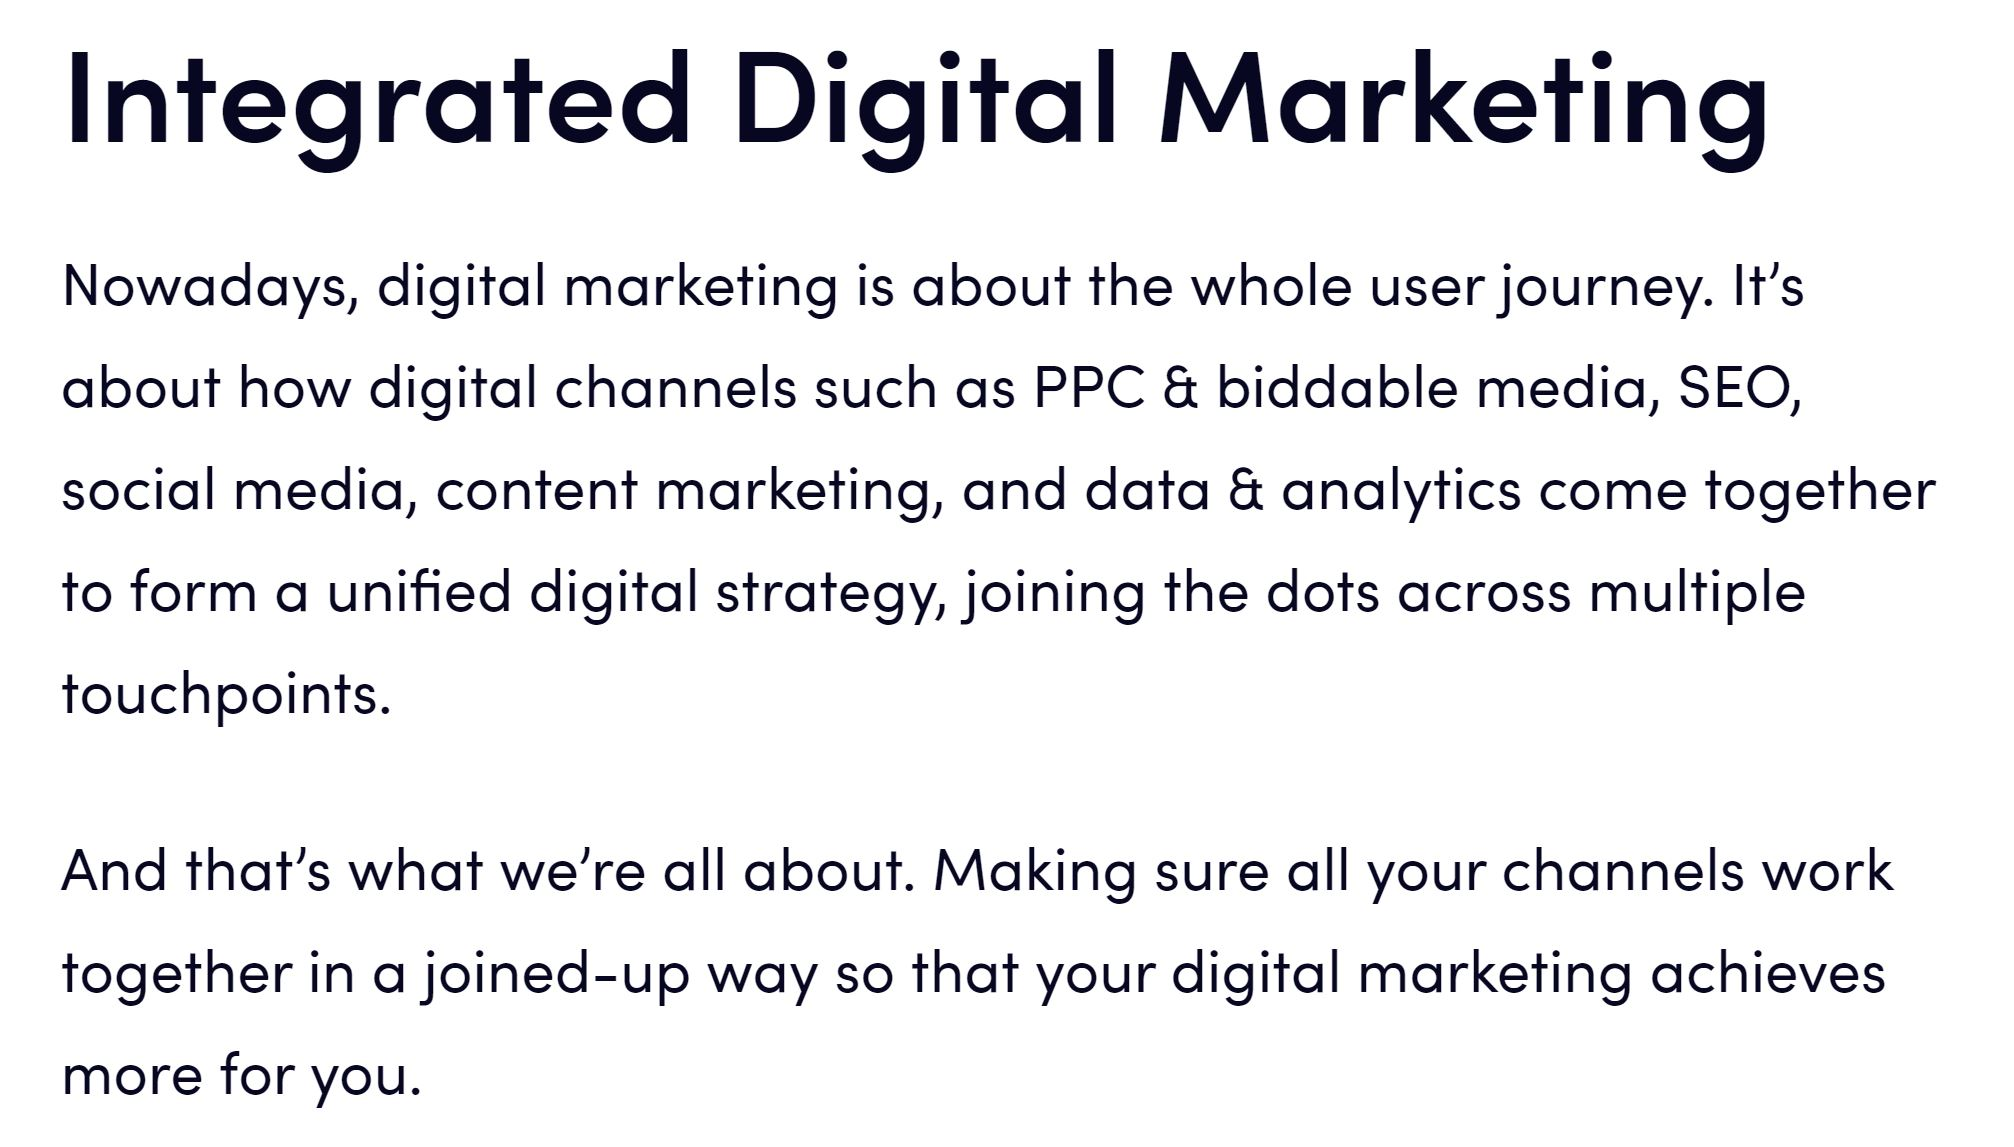
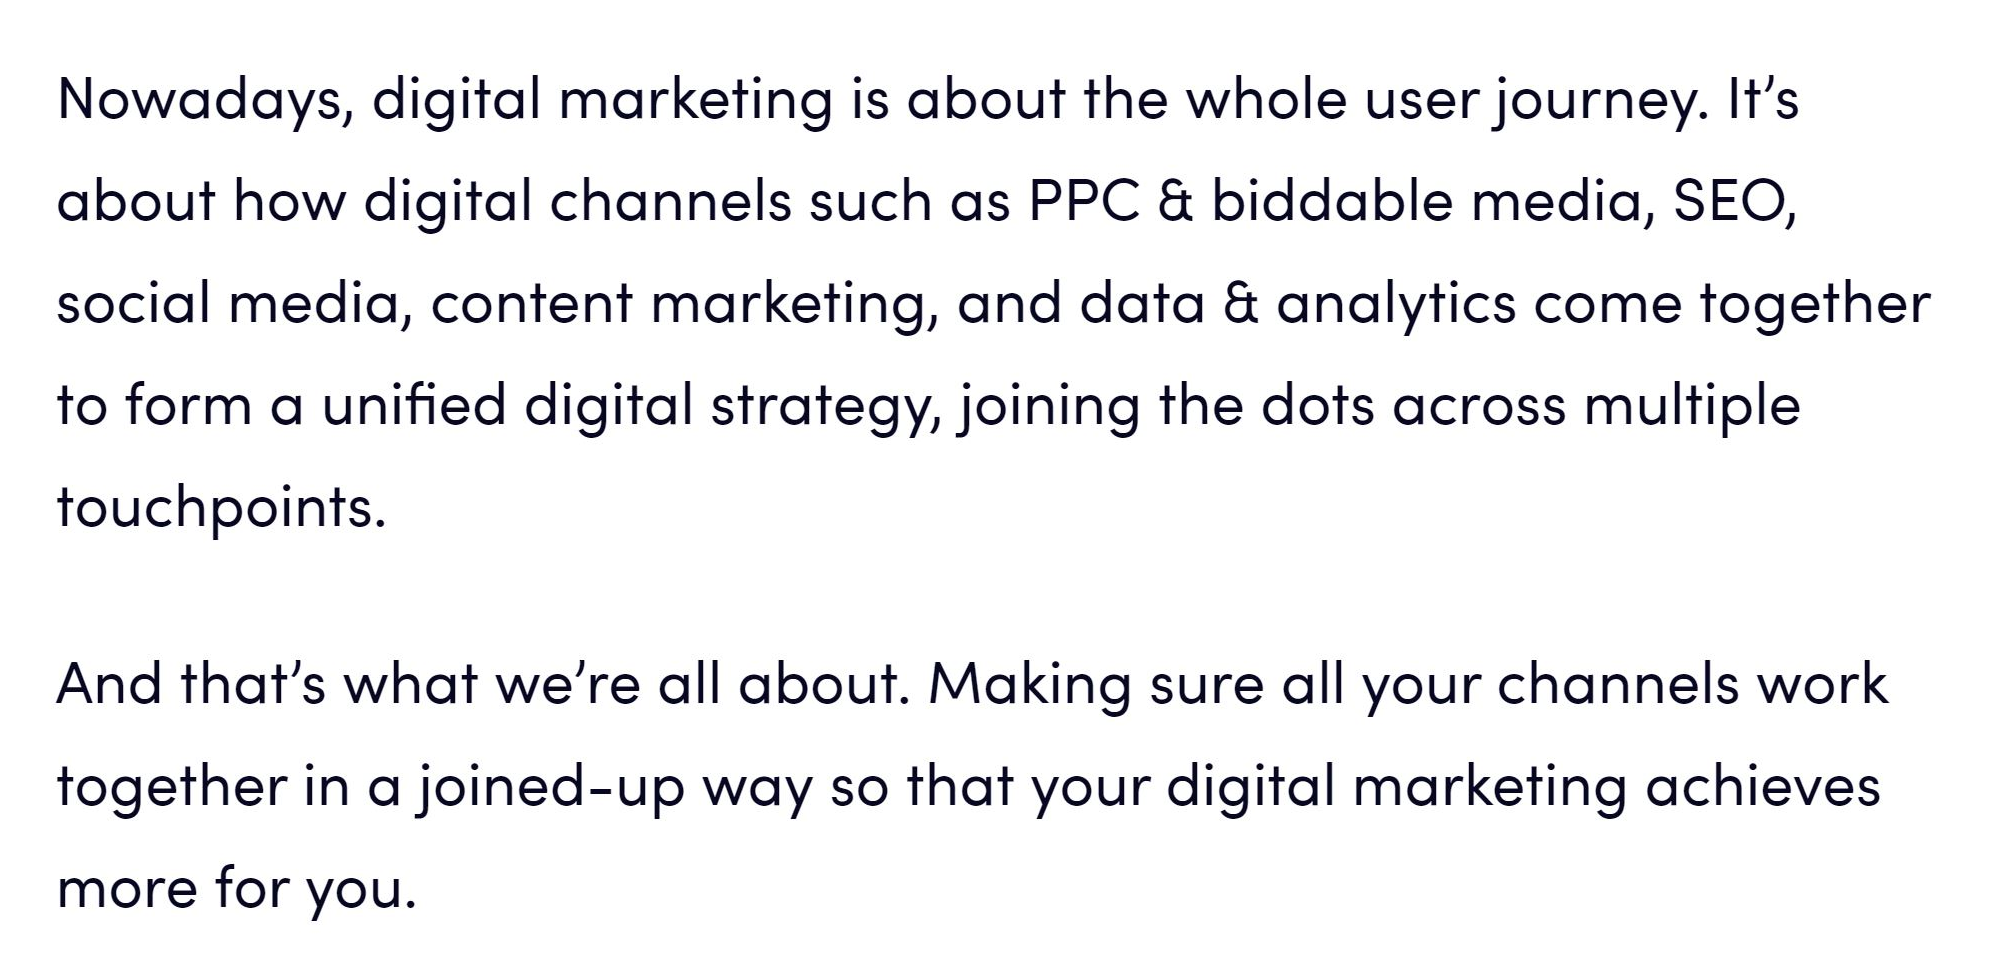
box sizing

diff --git a/components/index.html b/components/index.html
@@ -11,7 +11,17 @@
 
     <h2>Typography Defaults</h2>
 
-    <h3>Content Copy</h3>
+    <article class="component">
+        <h3 class="component__name">Body Copy</h3>
+        <img
+        srcset="img/homepage__section2--content.png 2x" 
+        src="img/homepage__section2--content.png" alt="Loom website body copy">
+        <div class="component__code">
+        <p>Nowadays, digital marketing is about the whole user journey. It’s about how digital channels such as PPC & biddable media, SEO, social media, content marketing, and data & analytics come together to form a unified digital strategy, joining the dots across multiple touchpoints.</p>
+
+        <p>And that’s what we’re all about. Making sure all your channels work together in a joined-up way so that your digital marketing achieves more for you.</p>
+    </div>
+</article>
     
 </body>
 </html>

diff --git a/css/style.css b/css/style.css
@@ -8,5 +8,15 @@
     --purple: #8a2ad1;
     --dark-navy: #202038;
     --blacklight: #14142d;
+}
 
+html {
+    box-sizing: border-box;
+  }
+  *, *:before, *:after {
+    box-sizing: inherit;
+  }
+
+body {
+    font-style: var(--font-sans-serif);
 }
